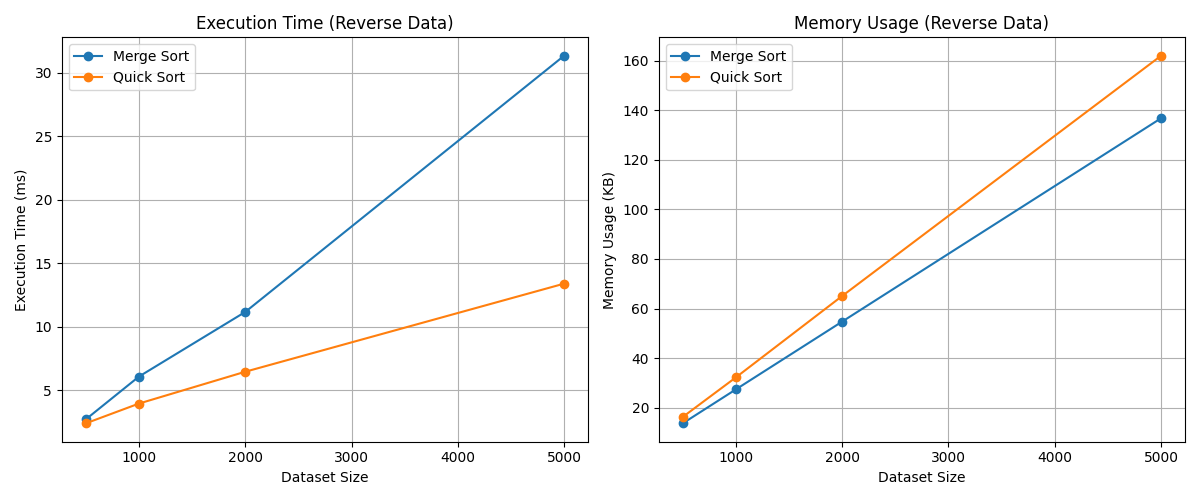
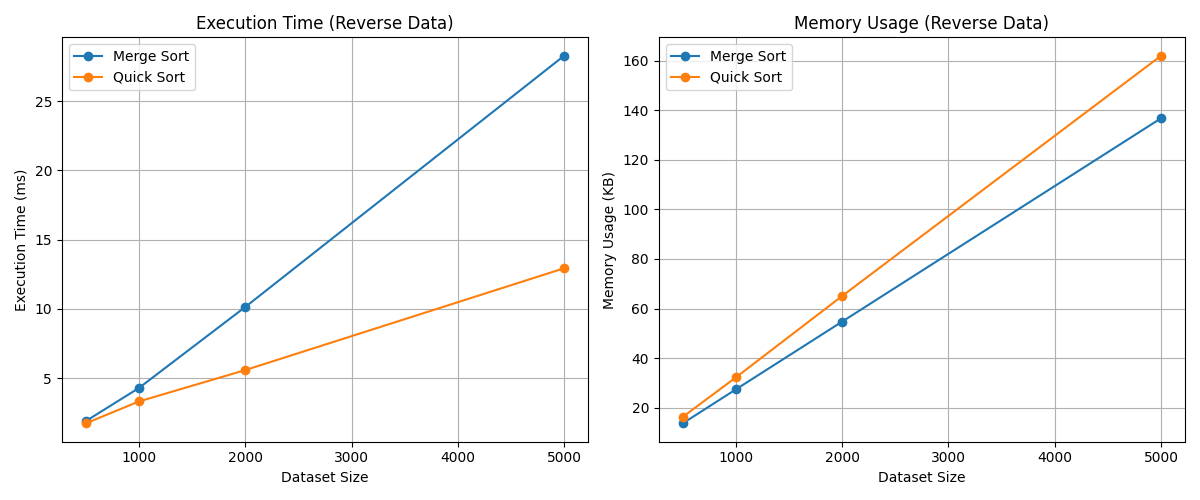
Add CSV export of sorting benchmark results with automatic directory creation

diff --git a/weeks-3-4/assignment-2/main.py b/weeks-3-4/assignment-2/main.py
@@ -1,5 +1,27 @@
+import os
+import csv
 from sorting_algorithms import merge_sort_algorithm, quick_sort_algorithm
 from utils import dataset_utils, metrics_utils, plot_utils
+
+
+def save_results_to_csv(
+    directory, filename, dataset_type, dataset_sizes, times, memories
+):
+    # Create directory if it doesn't exist
+    os.makedirs(directory, exist_ok=True)
+
+    filepath = os.path.join(directory, filename)
+    with open(filepath, mode="w", newline="") as file:
+        writer = csv.writer(file)
+        writer.writerow(
+            ["Dataset Type", "Size", "Algorithm", "Time (ms)", "Memory (KB)"]
+        )
+        for size in dataset_sizes:
+            for algo in ["Merge Sort", "Quick Sort"]:
+                time = times[algo][dataset_sizes.index(size)]
+                mem = memories[algo][dataset_sizes.index(size)]
+                writer.writerow([dataset_type, size, algo, f"{time:.2f}", f"{mem:.2f}"])
+    print(f"Saved results to {filepath}")
 
 
 def main():
@@ -38,6 +60,14 @@ def main():
             results_time["Quick Sort"].append(time_ms)
             results_memory["Quick Sort"].append(memory_kb)
 
+        # Save results for this dataset type to CSV inside the "outputs" folder
+        csv_filename = f"results_{dtype.lower()}.csv"
+        save_results_to_csv(
+            "outputs", csv_filename, dtype, dataset_sizes, results_time, results_memory
+        )
+        print(f"\nResults saved to outputs/{csv_filename}")
+
+        # Plot the performance graphs
         plot_utils.plot_performance(
             dataset_sizes,
             results_time,